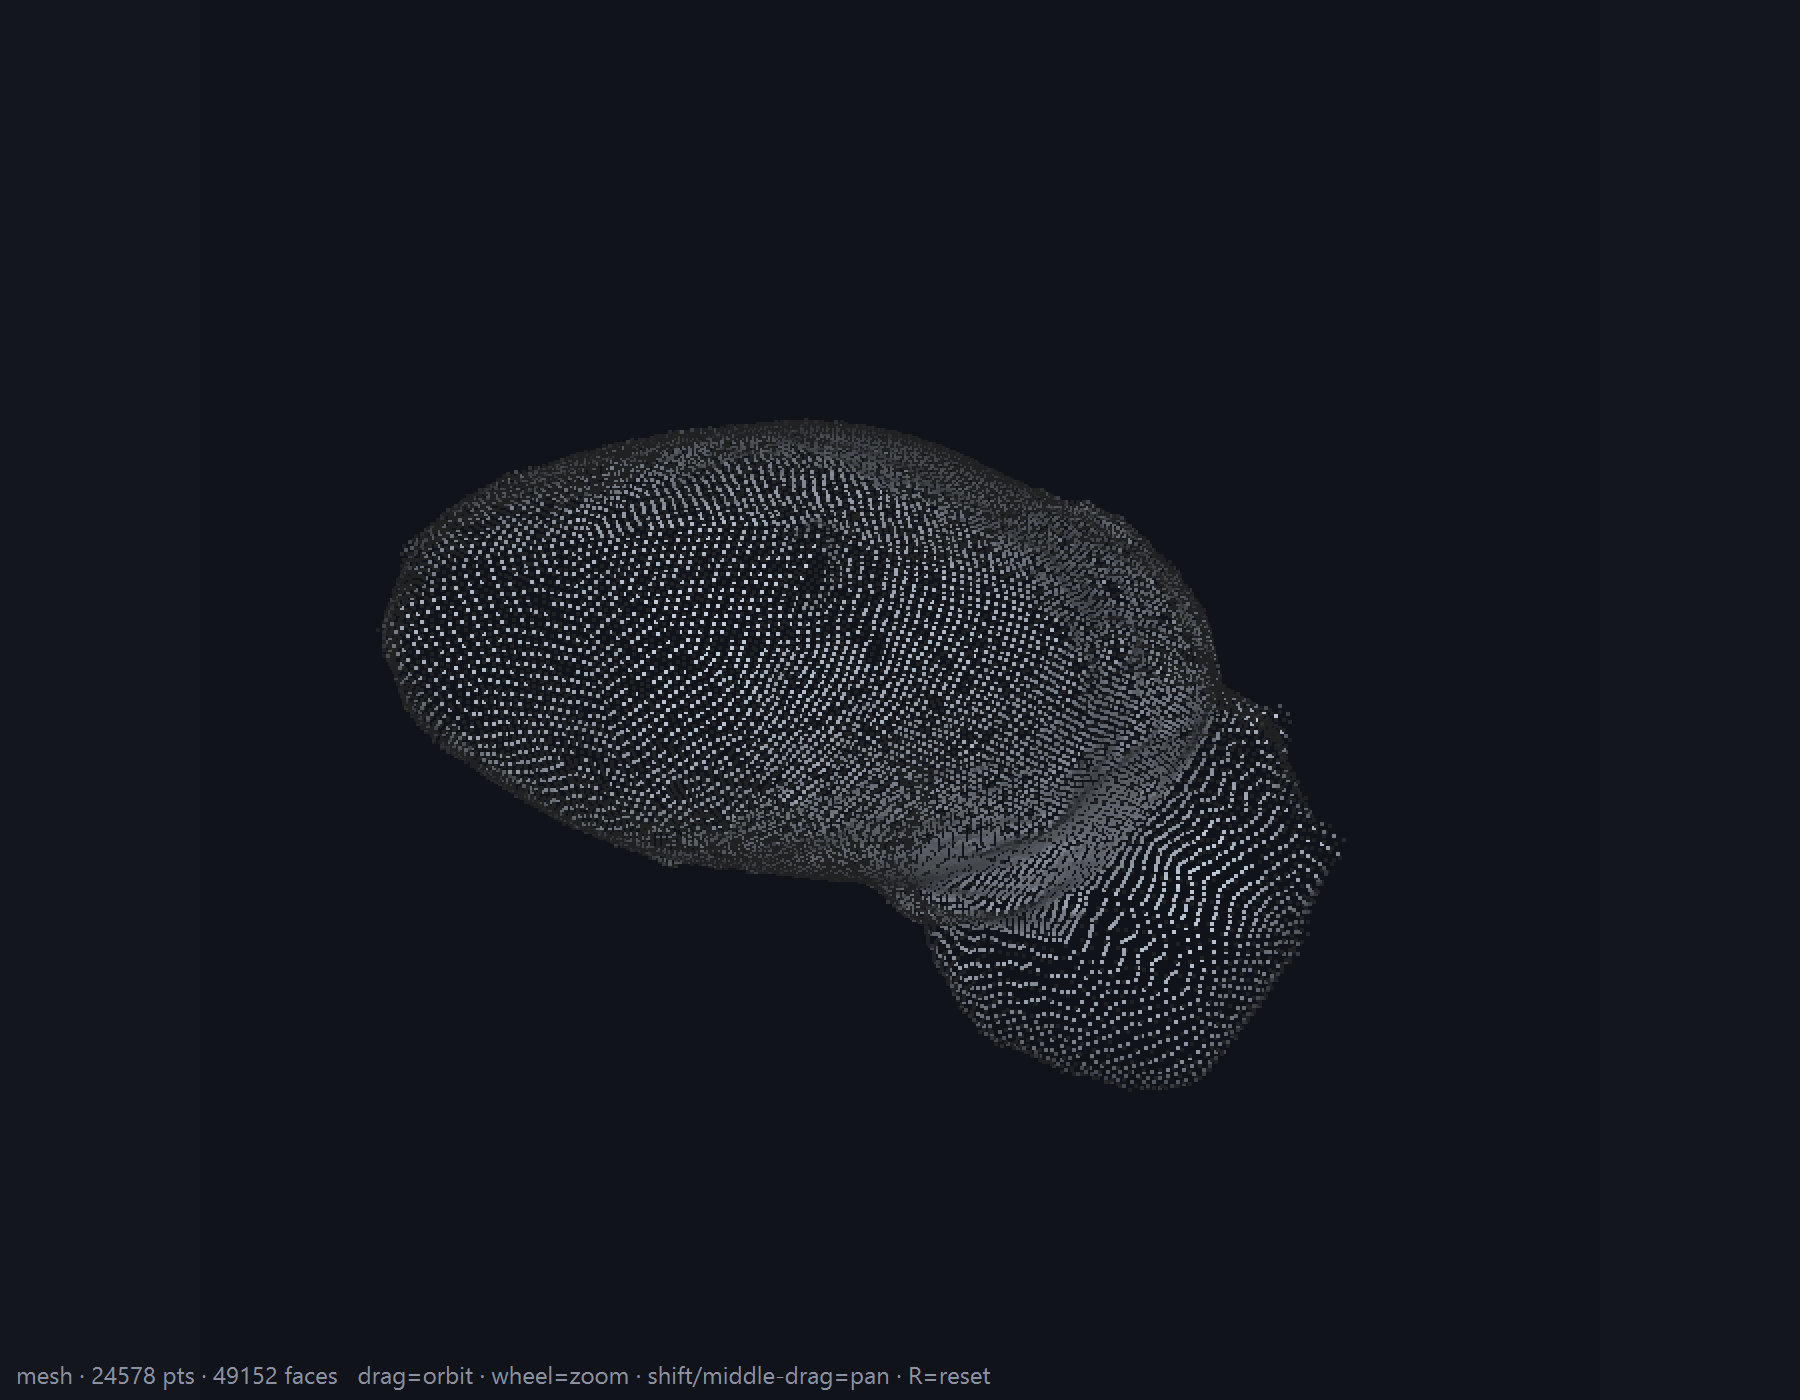
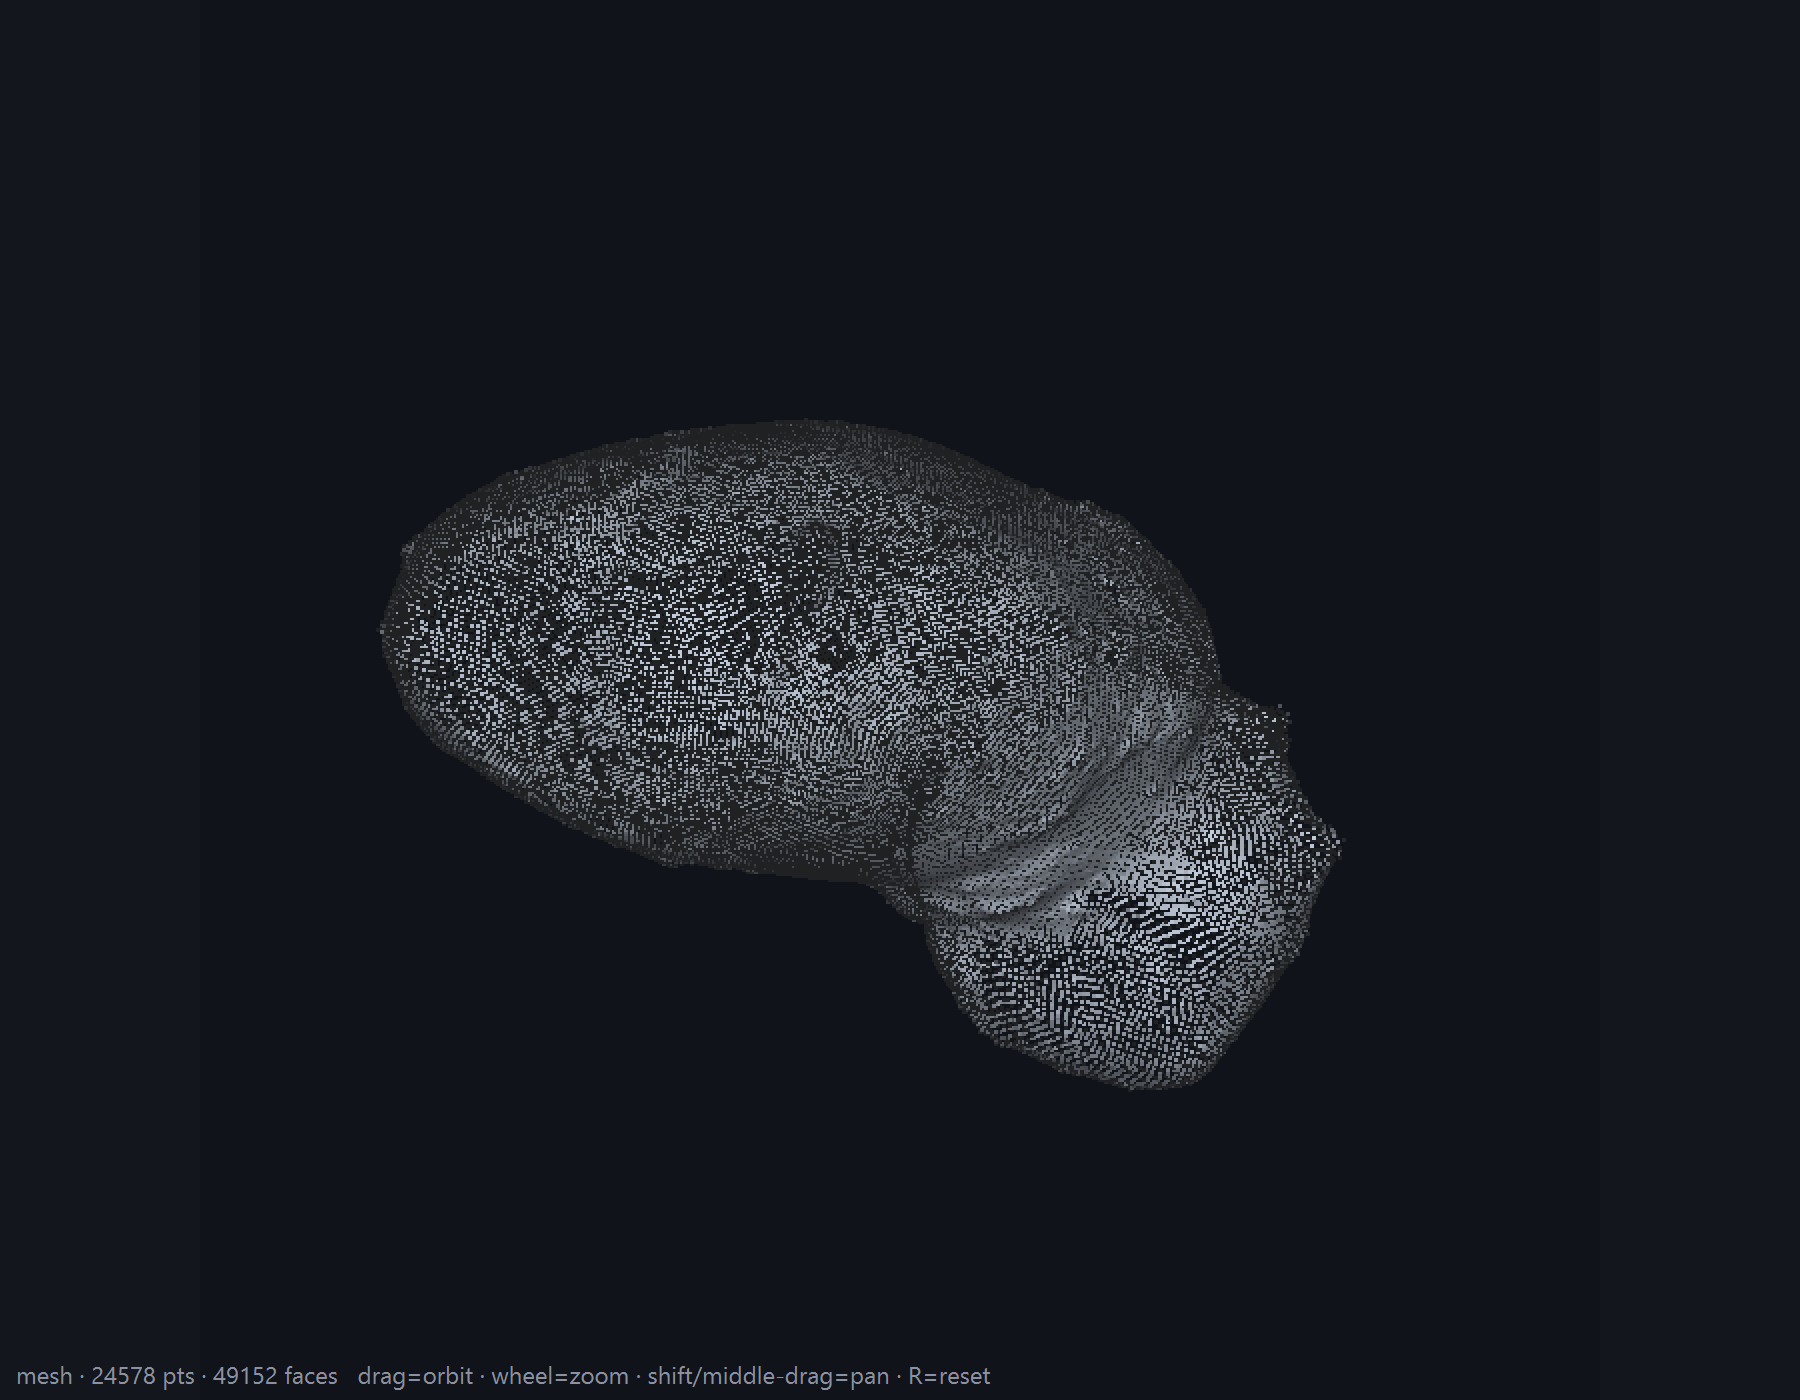
auto: gen_evis_media.py 編集前 (2026-08-30 18:03)

Changed region(s): [[0.2178, 0.3071, 0.7467, 0.7679]]

diff --git a/studio.py b/studio.py
@@ -1595,7 +1595,8 @@ def _viewer3d_class(QtWidgets, QtGui, QtCore):
             self._P = np.zeros((0, 3))          # displayed points (mesh: its vertices)
             self._colors = None                 # explicit per-point colors, or None
             self._F = None                      # mesh faces, or None for a cloud
-            self._VN = None                     # mesh vertex normals
+            self._V = None                      # mesh vertices proper (wireframe)
+            self._VN = None                     # normals for the splat cloud
             self._edges = None                  # mesh wireframe edges (or None)
             self._wire = False
             self._clusters = []                 # index arrays for highlight mode
